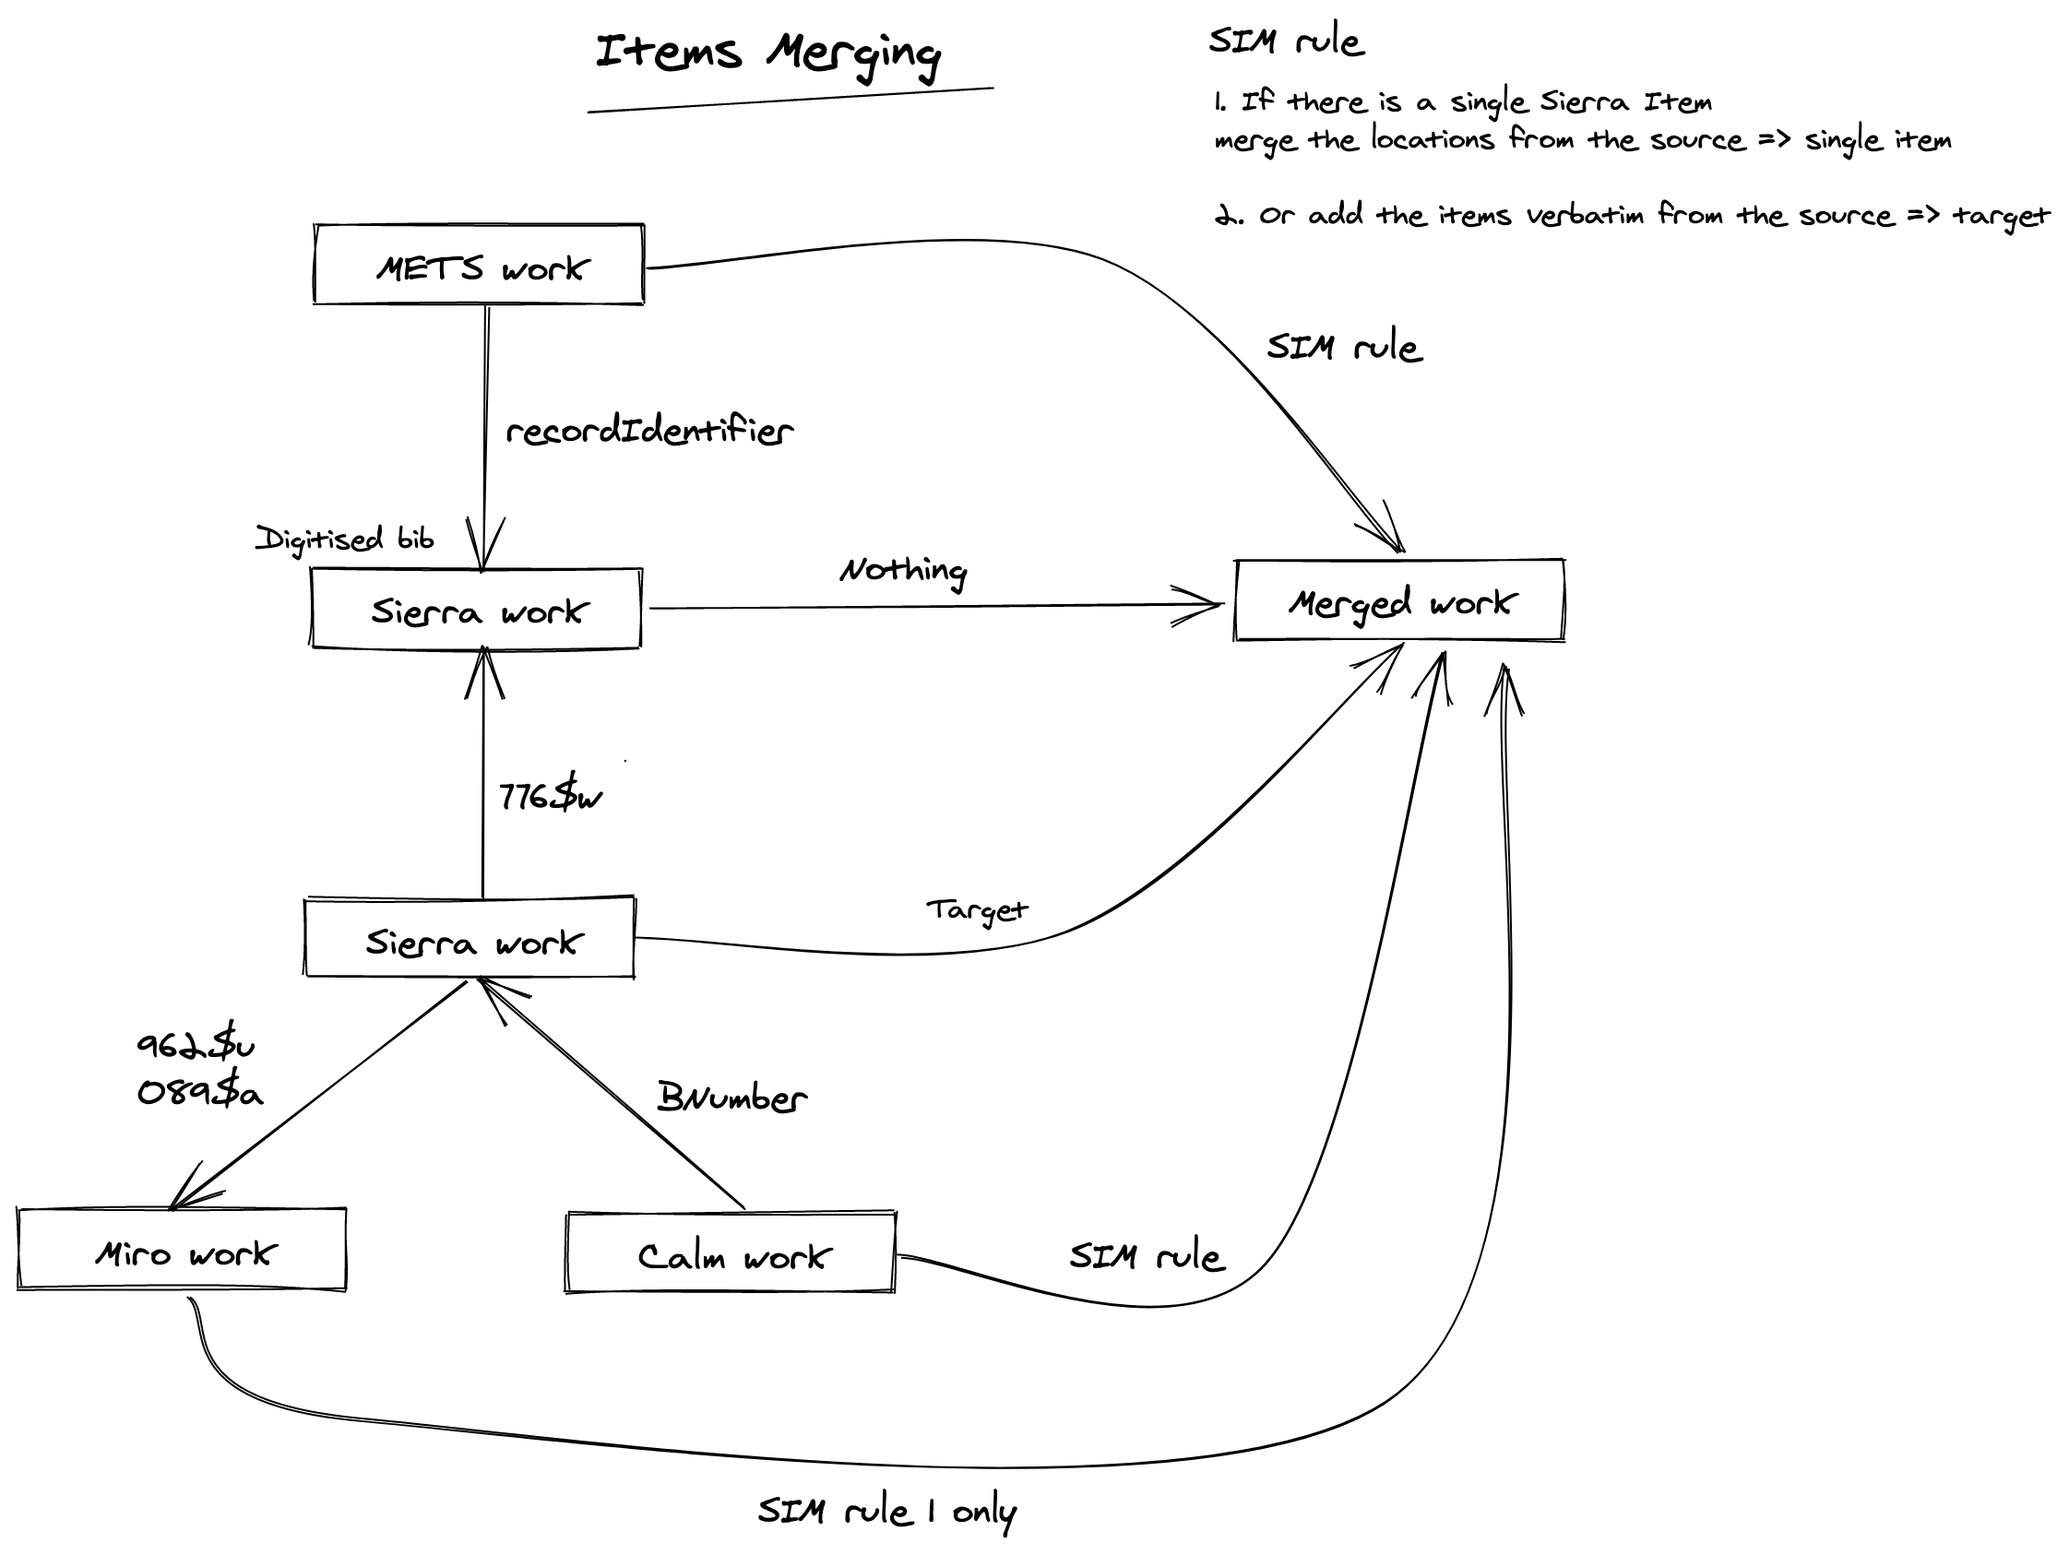
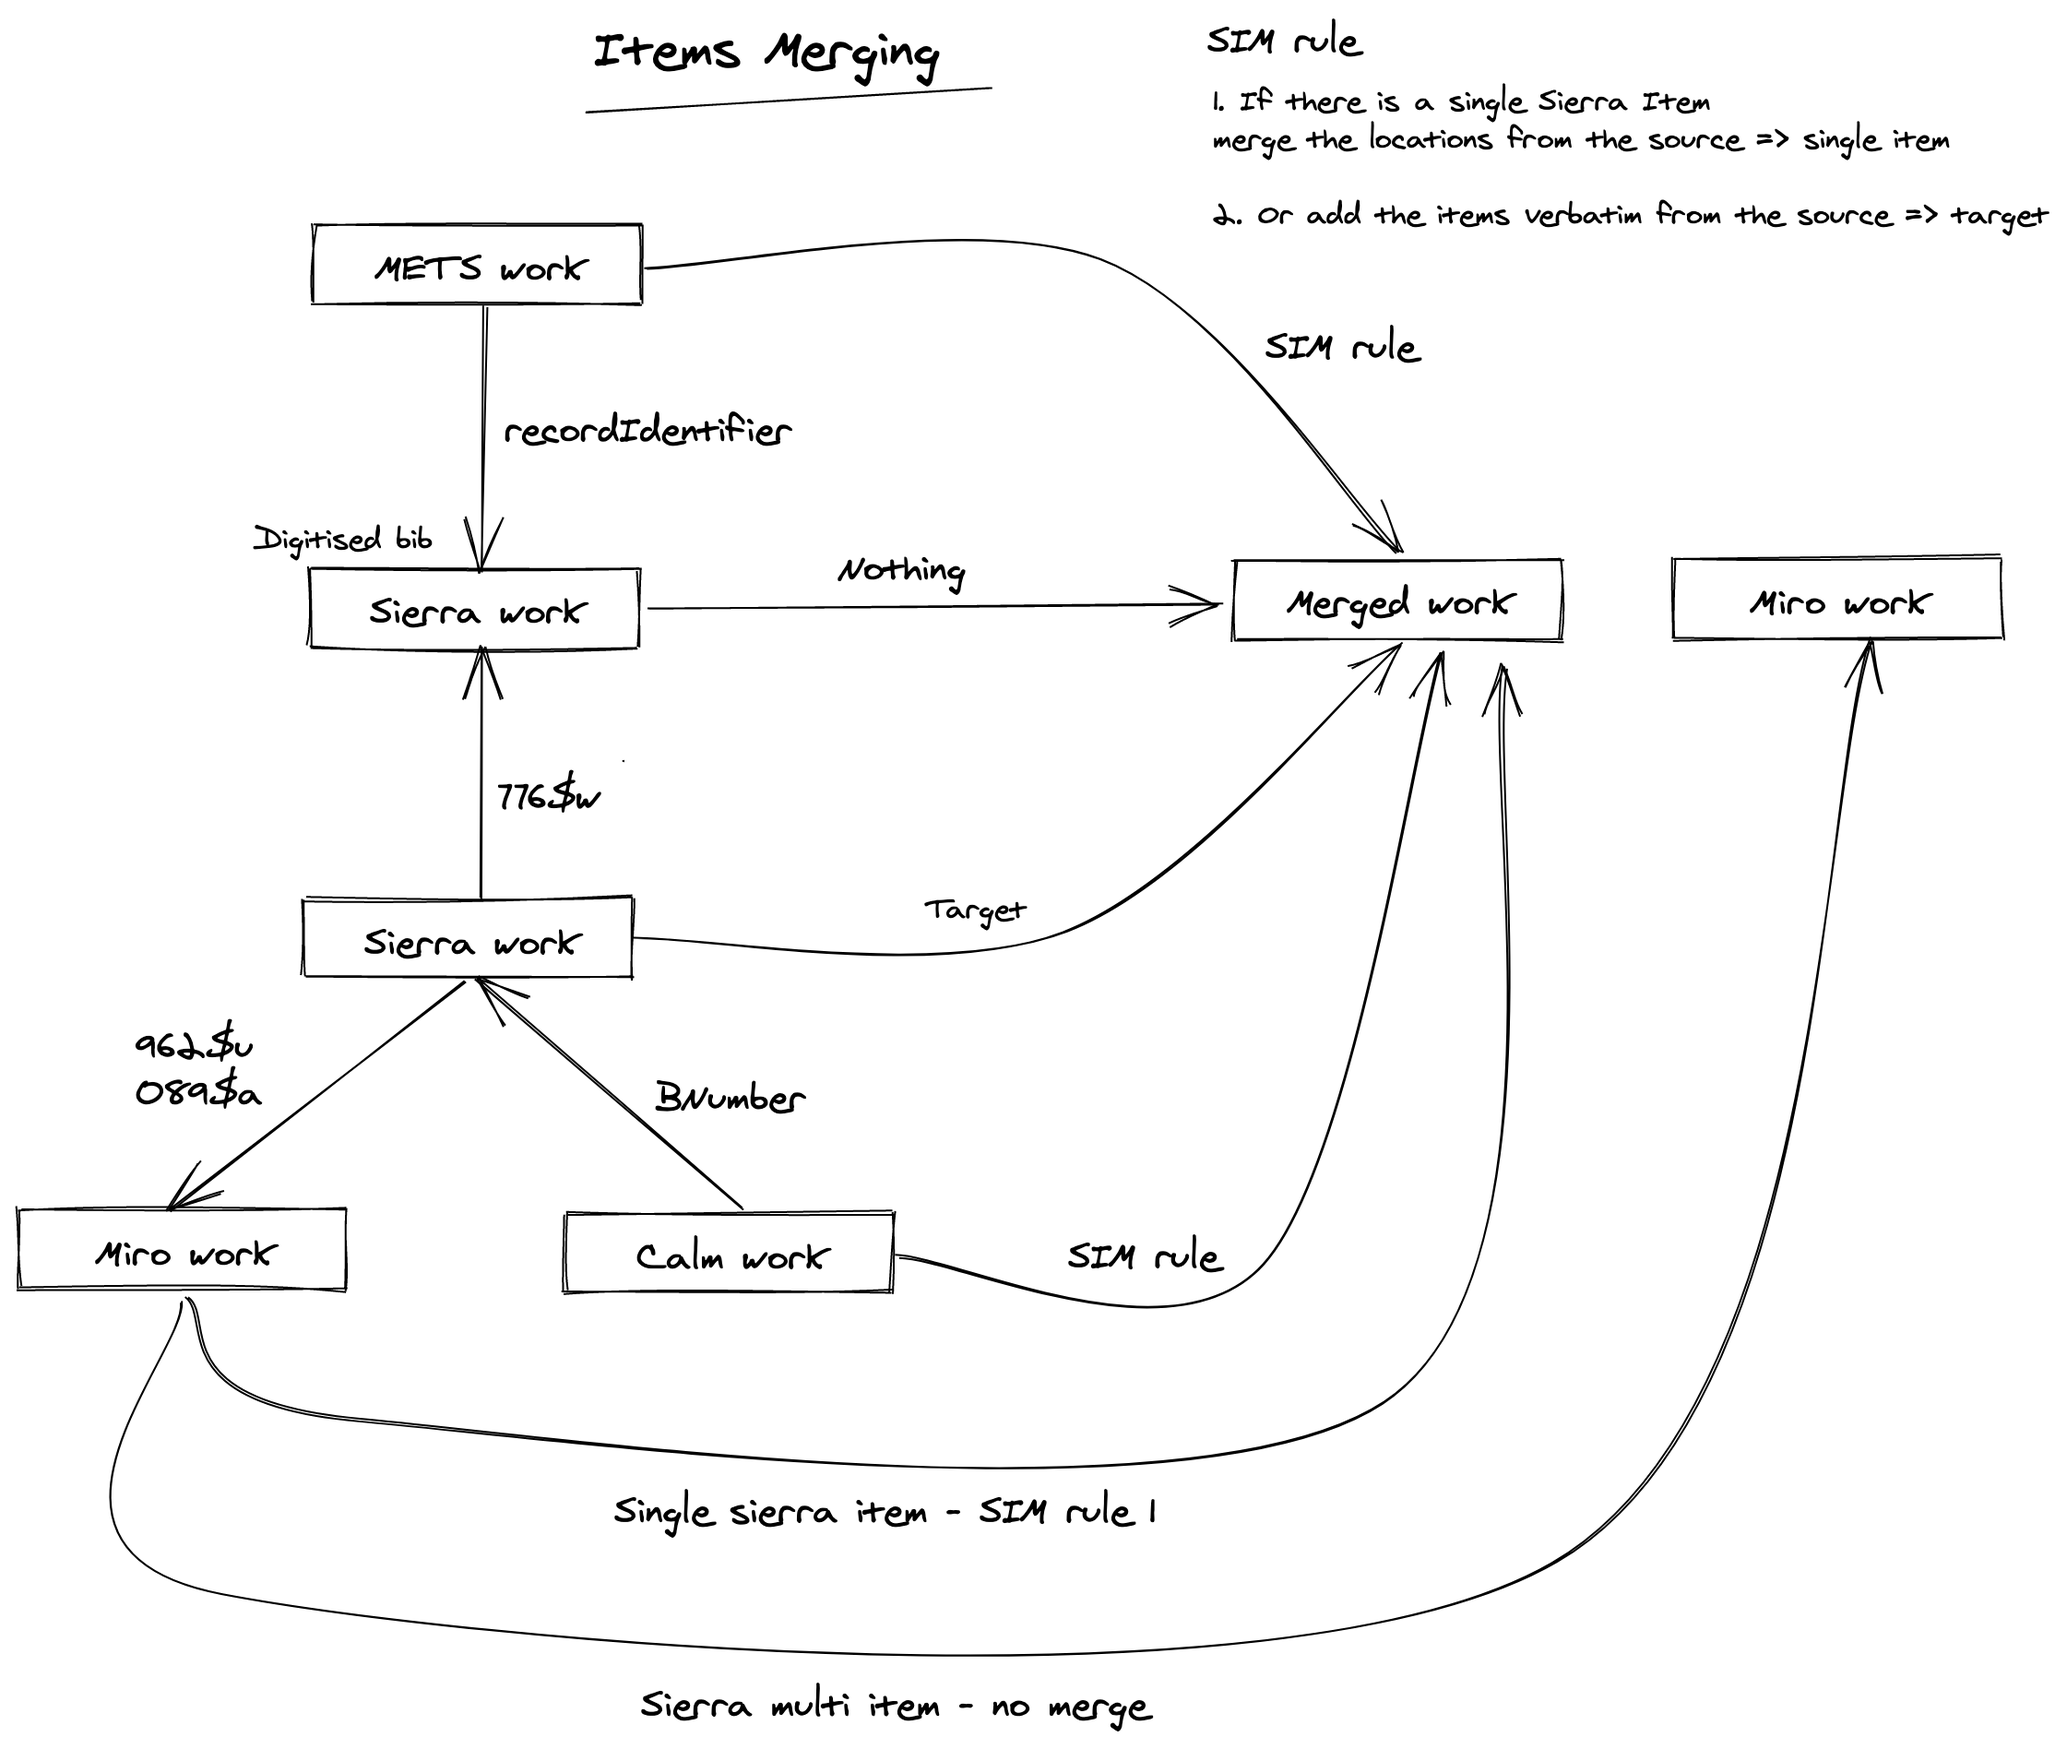
do not merge miro items if sierra has more than 1 item

diff --git a/docs/pipeline/merger_rules.md b/docs/pipeline/merger_rules.md
@@ -2,4 +2,4 @@
 
 ## Items
 ![How items are selected as candidates and merged](../.gitbook/assets/merger_items_rule.png)
-- https://excalidraw.com/#json=5708484704206848,JSxCf2OpvZGTD6ClEqtyRA
+- https://excalidraw.com/#json=5668043292147712,YpuVu8xVBCTbJt35vgcqDw
